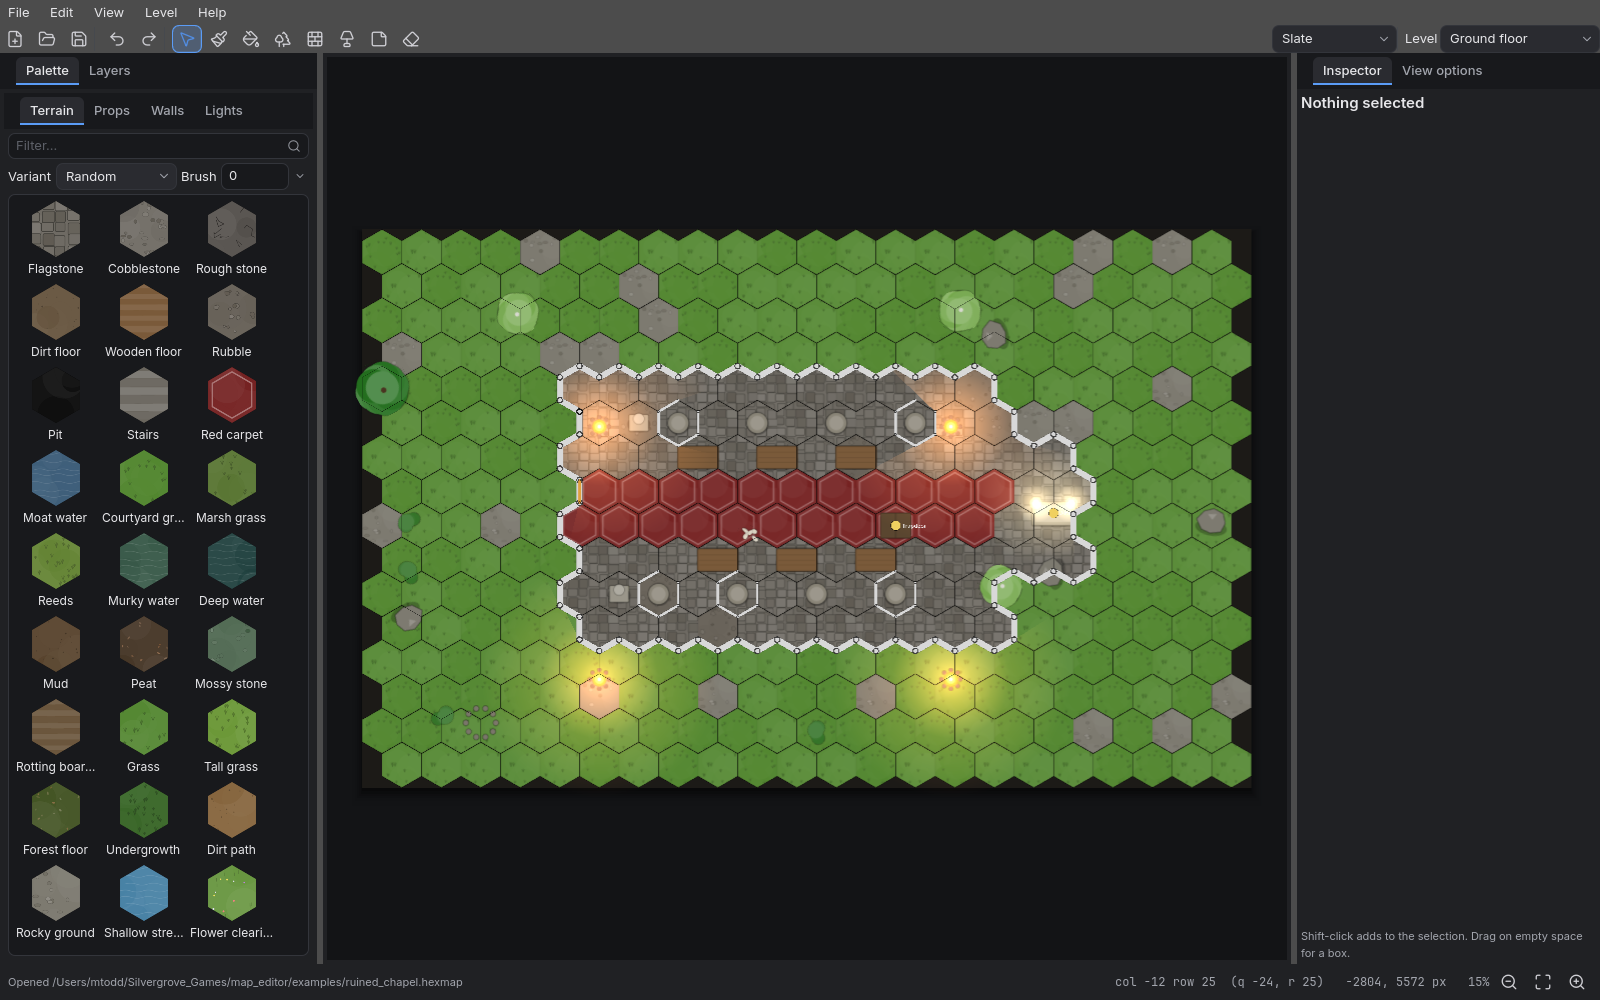
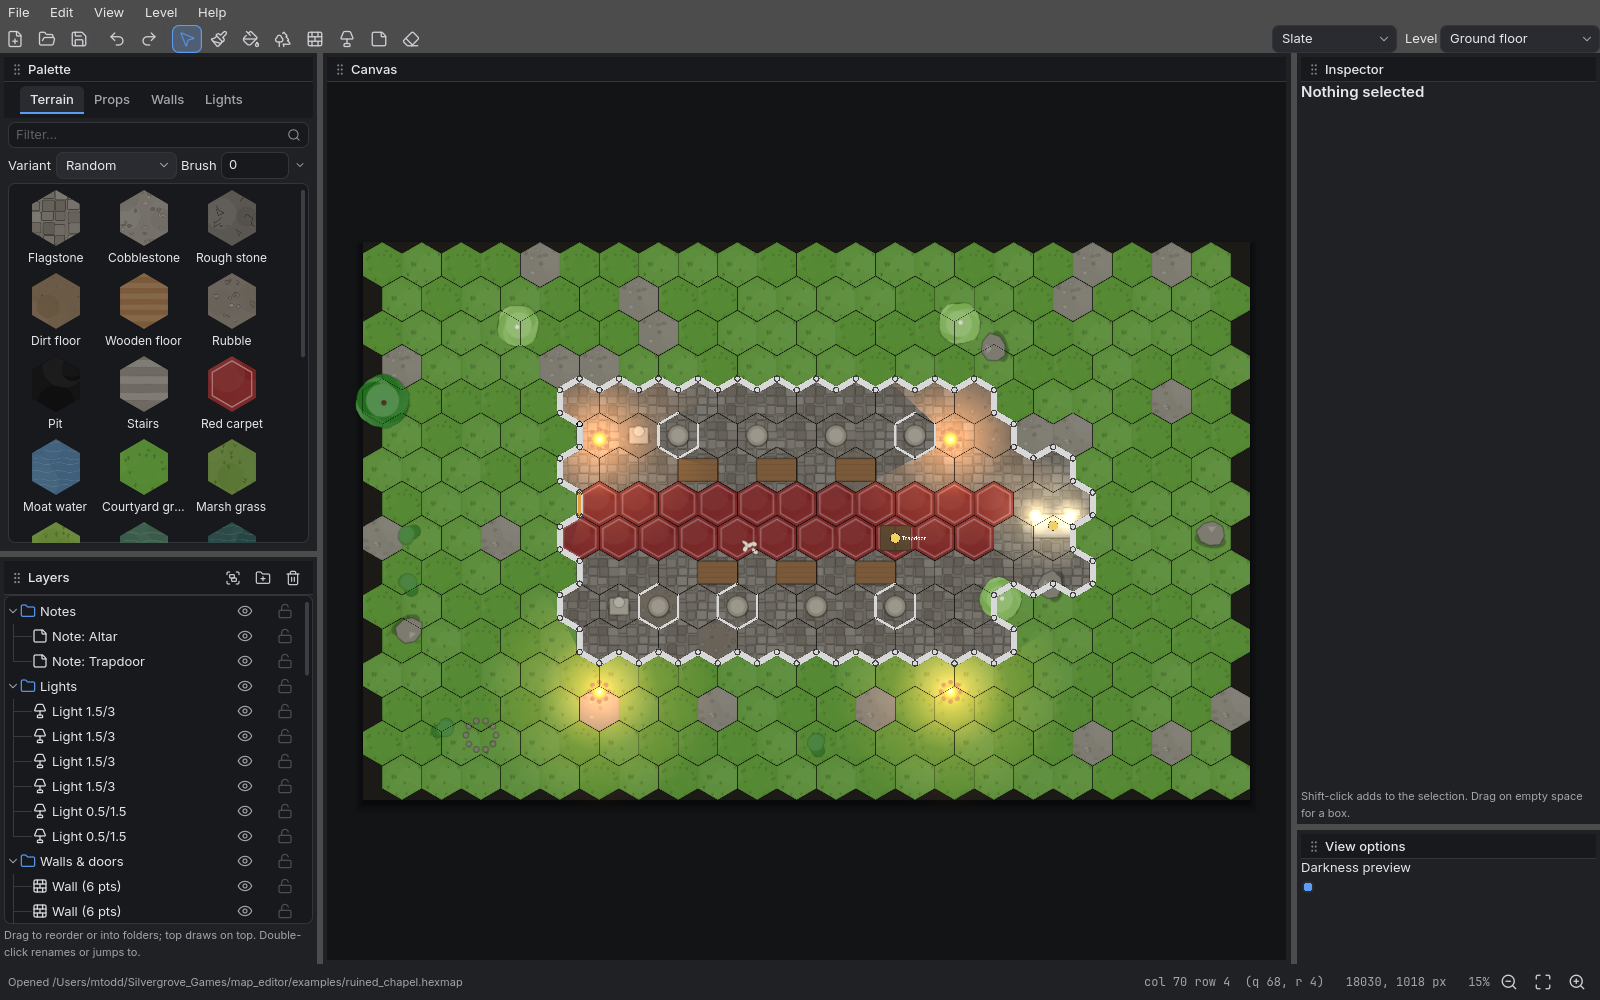
Dock panes get title bars that are the drag handles
DockPane wraps each panel with a header (grip, title, the panel's own action
buttons) whose drag hands the DockableContainer the same tab drag data it
produces itself, so a lone pane can be moved without a tab bar. Default
layout keeps every pane alone (Palette over Layers; Inspector over View
options) so only title bars show until the user groups panes. Layers'
Group/Folder/Delete buttons moved into its title bar. Tests: drag data
shape, target panel resolution, container acceptance, no data outside a
dock; the suite now runs on the first frame so the tree is live.

diff --git a/README.md b/README.md
@@ -57,10 +57,10 @@ Picking something in the left palette switches to the matching tool.
   pixel (Shift: ten). The inspector on the right edits every field,
   including positions in pixels at the map's authoring density
   (`reference_ppx`, default 256 px per hex) for artists who think that way.
-- **Panels dock.** Palette, Layers, Canvas, Inspector and View options are
-  tabs: drag a tab onto another panel to group with it, or to a panel's edge
-  to split. The arrangement is remembered per user; View → Reset panel
-  layout restores the default.
+- **Panels dock.** Every panel has a title bar with a grip; drag it onto
+  another panel to group the two as tabs, or onto a panel's edge to split.
+  The arrangement is remembered per user; View → Reset panel layout restores
+  the default (Palette over Layers, canvas, Inspector over View options).
 - **Theme** is the dropdown at the right of the toolbar (also View → Theme):
   Slate, Forge, Studio or Parchment, remembered per user.
 - **Layers** lists every element on the level, Photoshop style:
